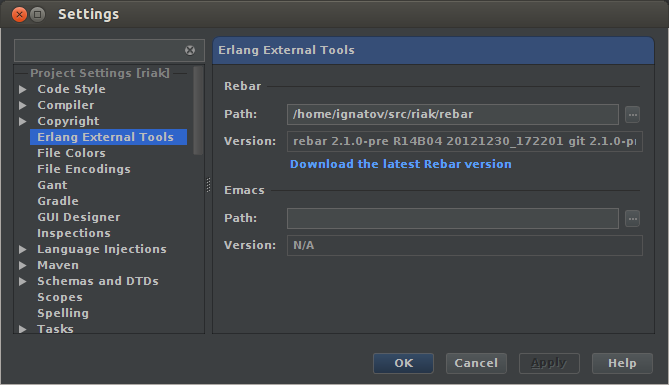
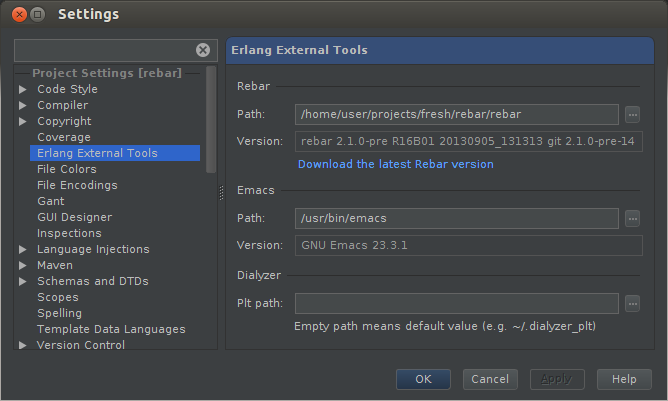
updated images; updated rebar integration section; added Project Settings section; added Debugger section

diff --git a/index.html b/index.html
@@ -96,41 +96,70 @@
                       <a href="https://github.com/ignatov/intellij-erlang/issues/189#issuecomment-15285262">#189 issue</a>.</p>
               </div>
               <div>
-                  After that you may create the new one Rebar run configuration (<strong>Run > Edit run configurations...</strong>), <br/>
+                  After you have set your rebar path up you can create a new Rebar run configuration(<strong>Run > Edit run configurations...</strong>), <br/>
                   use a little green button on the top left corner:
                   <img src="images/new_rebar_run_configuration.png"/>
               </div>
 
               <div>
-                  Or execute existing (<strong>Run > Run...</strong>)
+                  Or execute an existing one (<strong>Run > Run...</strong>)
                   <br/>
                   <img src="images/run_configuration_popup.png"/></div>
               <div>
-                  You may create run configuration for every command which Rebar supports, e.g. <code>compile</code> or <code>eunit</code>, etc.
-                  <img src="images/compile_run_configuration.png"/>
+                  You may create run configuration for every command which Rebar supports, e.g. <code>compile</code> or <code>clean</code>, etc.
+                  <img src="images/clean_run_configuration.png"/>
               </div>
 
               <div>
                   <strong>Skip dependencies</strong> checkbox adds <code>skip_deps=true</code> command for Rebar executable. <br/>
-                  <strong>Use test runner console</strong> checkbox attaches Eunit console which allows use graphical runner for your tests.
               </div>
 
               <div>
+	      	  To run eunit tests with rebar you can either create a Rebar Eunit run configuration or use a right-click context menu item '<strong>Run ...</strong>' or '<strong>Create ...</strong>' having clicked on a module(s), a unit test or a generator function you want to run.
                   <img src="images/eunit_run_configuration.png"/>
               </div>
 
               <div>
-                  Rebar-based Eunit test runner (with <code>eunit</code> command): <br/>
+                  Rebar-based Eunit test runner: <br/>
                   <img src="images/rebar_eunit.png"/>
               </div>
+	      <div>
+	      	  To set rebar as a default build action make sure you have checked <strong>Compile project with rebar</strong> checkbox:
+		  <img src="images/erlang_compiler_settings.png"/>
+	      </div>
               <div>
-                  Compilation result (with <code>compile</code> command): <br/>
+	      	  After that your project will be built with 'rebar compile' command when you run <strong>Build > Make Project</strong>.
+                  Compilation result: <br/>
                   <img src="images/rebar_compile_result.png"/>
               </div>
           </div>
 
+<h3><a name="Project structure" href="#project-structure">Project structure</a></h3>
+
+          <div>
+	      In version 0.5 we've added additonal per-module configuration parameters(see <strong>Project Structure > Modules</strong>).<br/>
+	      There you can setup your modules' include paths and global parse transformations.
+	      <img src="images/facet.png"/>
+	  </div>
+
+
+<h3><a name="Debugger" href="#debugger">Debugger</a></h3>
+
+          <div>
+	     Version 0.5 introduces experimental Erlang debugger support.<br/>
+	     In order to use debugger you need to have <strong>Add debug_info</strong> checkbox under <strong>Settings > Compiler > Erlang Compiler</strong> checked.<br/>
+	     You also need an Erlang Application run configuration which will be used by debugger. Such configuration can be created by right-clicking on entry point function.<br/>
+	     <img src="images/debug_run_configuration.png"/><br/>
+	     Then you can use this configuration to debug your program:<br/>
+	     <img src="images/debugger.png"/><br/>
+	     The debugger requires Erlang Port Mapper Daemon (epmd) to be running. If it's not up, a warning will be issued.
+	     To start the daemon run any Erlang node on your machine, for example with "erl -sname foo -s init stop -noshell" command.
+	  </div>
+
+      
       </section>
     </div>
+
 
     <!-- FOOTER  -->
     <div id="footer_wrap" class="outer">
